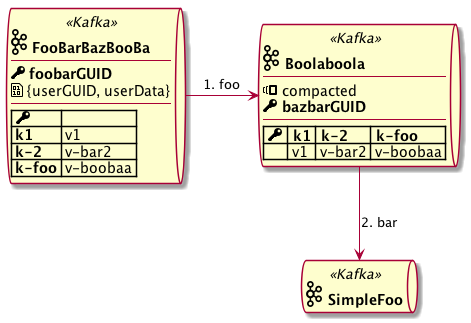
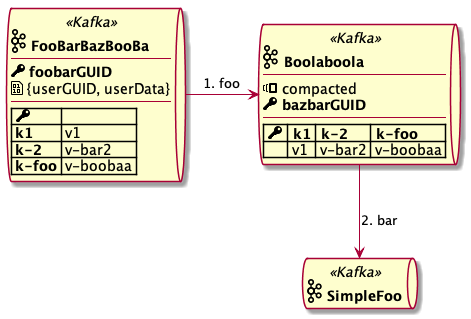
Update extensions to utilise inclusion mechanism

diff --git a/README.md b/README.md
@@ -1,12 +1,33 @@
 # plantuml-extensions
 
-Various macros/includes for PlantUML
+Various extensions PlantUML
 
-## Sequence diagrams
+## Usage example:
+
+```
+@startuml
+
+!preprocessorV2
+
+!include https://raw.githubusercontent.com/jrosiek/plantuml-extensions/master/puml_ext.iuml
+
+$puml_ext_include(extension-name)
+
+' for example:
+$puml_ext_include(art/logos16.iuml)
+
+' ... your diagram here
+
+@enduml
+```
+
+## Extensions
+
+### Sequence diagrams
 
 * [kafka_topic_participant](./sequence/kafka-topic-participant.md) - create participant that represents kafka topic
 
 
-## Component diagrams
+### Component diagrams
 
 * [kafka_topic_component](./component/kafka-topic-component.md) - create component that represents kafka topic

diff --git a/component/kafka-topic-component.md b/component/kafka-topic-component.md
@@ -24,9 +24,13 @@ It lets you add the information what is the topic key and value and whether it i
 ```
 @startuml
 
+@startuml
+
 !preprocessorV2
 
-!include https://raw.githubusercontent.com/jrosiek/plantuml-extensions/master/component/kafka-topic-component.iuml
+!include https://raw.githubusercontent.com/jrosiek/plantuml-extensions/master/puml_ext.iuml
+
+$puml_ext_include(component/kafka-topic-component.iuml)
 
 kafka_topic_component(A, FooBarBazBooBa, foobarGUID, "{userGUID, userData}", "", "k1:v1|k-2:v-bar2|k-foo:v-boobaa", vert)
 kafka_topic_component(B, Boolaboola, bazbarGUID, "", compacted, "k1:v1|k-2:v-bar2|k-foo:v-boobaa")

diff --git a/sequence/kafka-topic-participant.md b/sequence/kafka-topic-participant.md
@@ -26,7 +26,9 @@ It lets you add the information what is the topic key and value and whether it i
 
 !preprocessorV2
 
-!include https://raw.githubusercontent.com/jrosiek/plantuml-extensions/master/sequence/kafka-topic-participant.iuml
+!include https://raw.githubusercontent.com/jrosiek/plantuml-extensions/master/puml_ext.iuml
+
+$puml_ext_include(sequence/kafka-topic-participant.iuml)
 
 kafka_topic_participant(A, FooBarBazBooBa, foobarGUID, "{userGUID, userData}", "", "k1:v1|k-2:v-bar2|k-foo:v-boobaa", vert)
 kafka_topic_participant(B, Boolaboola, bazbarGUID, "", compacted, "k1:v1|k-2:v-bar2|k-foo:v-boobaa")
